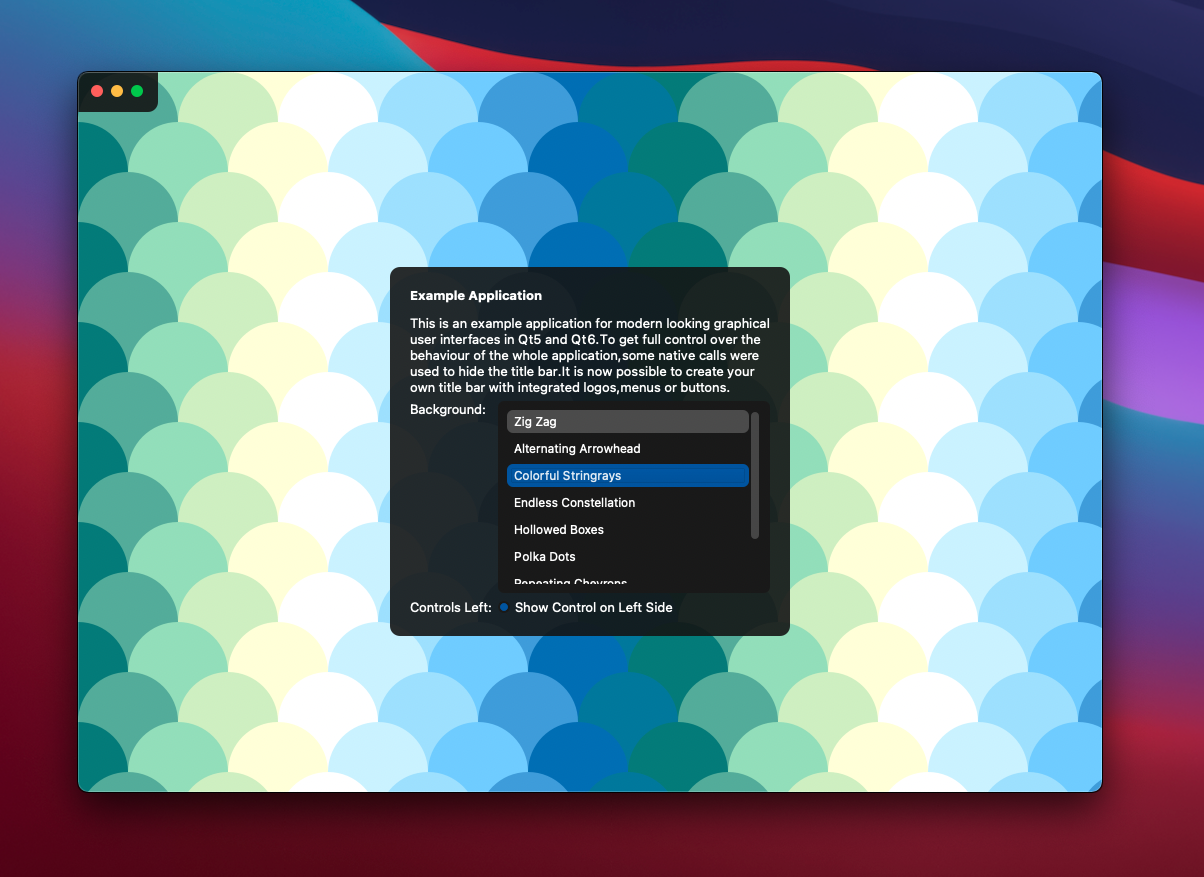
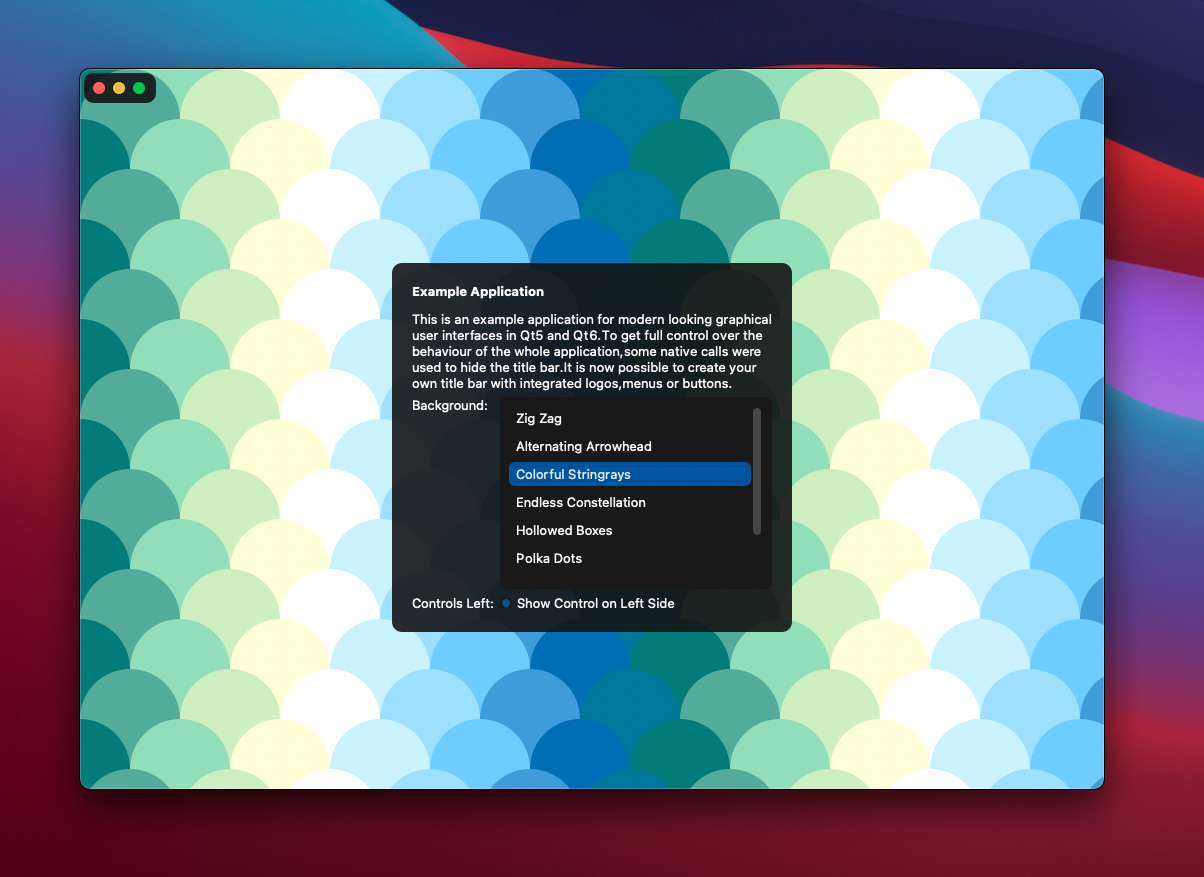
Hide windows imports from macos and linux, update screen shoot

diff --git a/src/example_frameless_window/src/platform/UndecoratedWindow.cpp b/src/example_frameless_window/src/platform/UndecoratedWindow.cpp
@@ -1,6 +1,5 @@
 #include "UndecoratedWindow.h"
 #include "ui_undecoratedwindow.h"
-#include "QWinWidget.h"
 
 #include <QApplication>
 #include <QWindow>
@@ -14,6 +13,9 @@
 
 #ifdef Q_OS_DARWIN
 #include "platform/OSXHideTitleBar.h"
+#endif
+#ifdef Q_OS_WINDOWS
+#include "QWinWidget.h"
 #endif
 
 QString getStyleSheet() {
@@ -35,8 +37,9 @@ void UndecoratedWindow::restoreWindowStates() {
 }
 
 void UndecoratedWindow::storeWindowState() {
+#ifdef Q_OS_WINDOWS
   qDebug() << "Store" << this->win_widget->nativeGeometry();
-
+#endif
   QSettings settings
       (QApplication::organizationName(), QApplication::applicationName(), this);
   settings.setValue("window_state", saveState());
